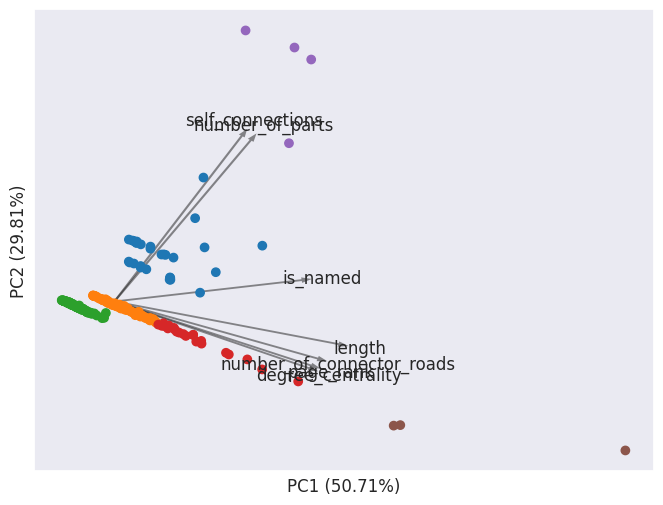
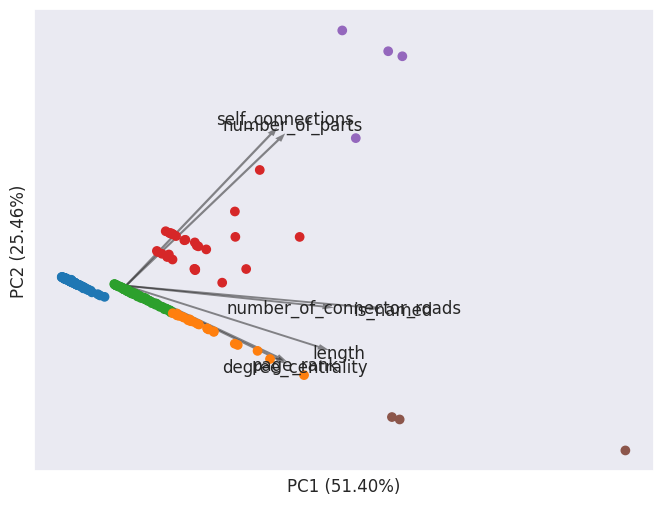
checkpoint

diff --git a/capstone_roads.py b/capstone_roads.py
@@ -40,16 +40,17 @@ from numpy import abs, min, subtract
 
 
 def get_neighbors_and_update(this_dict, this_name, this_line, tree, data):
-    nearest, dist = tree.query_nearest(this_line, return_distance=True)
+    nearest, dist = tree.query_nearest(
+        this_line, return_distance=True, max_distance=0.001
+    )
     if dist[0] == 0:
         for _, id in enumerate(nearest):
             # nearest from .query_nearest gives the ids, not the names
             if data["FULLNAME"][id] == this_name:
                 this_dict["self_connections"] += 1
             # append all connected roads that are not this road
-            else:
-                this_dict["connections_names"].append(data["FULLNAME"][id])
-                this_dict["number_of_connector_roads"] += 1
+            this_dict["connections_names"].append(data["FULLNAME"][id])
+            this_dict["number_of_connector_roads"] += 1
     return this_dict
 
 
@@ -69,7 +70,7 @@ def create_data_for_road(i, set_of_looked_at_roads, list_of_dicts, tree, data):
     if (this_name[0] in {"1", "2", "3", "4", "5", "6", "7", "8", "9", "0"}) and (
         this_name[-1] in {"1", "2", "3", "4", "5", "6", "7", "8", "9", "0"}
     ):
-        this_dict["is_named"] = 0.75  # arbitrary value for false
+        this_dict["is_named"] = 0.7  # arbitrary value for false
 
     if this_name not in set_of_looked_at_roads:
         # ignore it if the road has been looked at
@@ -91,8 +92,9 @@ def create_data_for_road(i, set_of_looked_at_roads, list_of_dicts, tree, data):
                 orig_ind = ind
                 break
         this_dict = list_of_dicts[orig_ind]
-        this_dict["number_of_parts"] += 1
+
         this_dict["length"] += shapely.length(this_line)
+        this_dict["number_of_parts"] += 1
         this_dict = get_neighbors_and_update(
             this_dict, this_name, this_line, tree, data
         )
@@ -104,7 +106,6 @@ def loop_through_roads(set_of_looked_at_roads, list_of_dicts, tree, data, num_ro
     i = 0
     while True:
         try:
-            i = i + 1
             print(
                 next(
                     create_data_for_road(
@@ -114,8 +115,9 @@ def loop_through_roads(set_of_looked_at_roads, list_of_dicts, tree, data, num_ro
                 end=" ",
             )
             print("/", str(num_roads))
+            i = i + 1
         except:
-            return list_of_dicts
+            return list_of_dicts, set_of_looked_at_roads
 
 
 def graph_analysis(list_of_dicts, start_time, shape_files):
@@ -125,6 +127,7 @@ def graph_analysis(list_of_dicts, start_time, shape_files):
     # Add nodes (roads) to the graph
     for road_data in list_of_dicts:
         # some roads don't have a road_name field?? Not sure how that happens..
+        # OH Thats what's causing our failed import
         if "road_name" in road_data:
             G.add_node(road_data["road_name"], data=road_data)
 
@@ -138,6 +141,7 @@ def graph_analysis(list_of_dicts, start_time, shape_files):
                 G.add_edge(road_name, connection)
 
     ic("Time is", timeit.default_timer() - start_time)
+    ic("Number of roads in G is", len(G))
 
     depth = 400
     if nx.is_connected(G):
@@ -153,12 +157,11 @@ def graph_analysis(list_of_dicts, start_time, shape_files):
     else:
         ic("not connected. Analysis on largest connected subset below")
         list_of_connected_dicts = []
-        list_of_unconnected_dicts = []
         orig_idxs = []
         G3 = nx.Graph()
 
         G2 = copy.deepcopy(G)
-        # MAN this sucks. It looks like copy was depreciated as an argument to max() or connected_components
+        # It looks like copy was depreciated as an argument to max() or connected_components
         # And since connected_components removes attribute labels, we need to keep these labels floating around.
         G2 = max(nx.connected_components(G2), key=len)
         # G2 gives a list of road names that are connected
@@ -170,8 +173,6 @@ def graph_analysis(list_of_dicts, start_time, shape_files):
                     list_of_connected_dicts.append(this_road)
                     orig_idxs.append(i)
                     G3.add_node(this_road["road_name"], data=this_road)
-                else:
-                    list_of_unconnected_dicts.append(this_road)
 
         for i, conn_road in enumerate(list_of_connected_dicts):
             # loop through again because edges have to come after nodes
@@ -182,21 +183,16 @@ def graph_analysis(list_of_dicts, start_time, shape_files):
                     G3.add_edge(road_name, connection)
         ic("number of nodes is", str(G3.number_of_nodes()))
         ic("number of edges is", str(G3.number_of_edges()))
-        ic("degree centrality is", str(nx.degree_centrality(G3))[:depth])
-        ic("pagerank is", str(nx.pagerank(G3))[:depth])
         centr = nx.degree_centrality(G3)
         centr_list = list(centr.values())
         pge_rnk = nx.pagerank(G3)
         pge_rnk_list = list(pge_rnk.values())
-        print(
+        ic(
             "the difference between roads before and after cleaning is",
             str(G.number_of_nodes()),
             "to",
             str(G3.number_of_nodes()),
         )
-
-    # need to now collect the information back out of G into something in order to classify
-    # only currently works for G3.
 
     connected_sfs = []
 
@@ -288,6 +284,17 @@ def show_results(list_of_connected_dicts):
     return cols
 
 
+def plot(shape_files):
+    gpd_files = gpd.GeoSeries(shape_files)  # passed in shape_files
+    fig, ax = plt.subplots()
+    gpd_files.plot(ax=ax)
+
+    plt.savefig(
+        "orig_roads.png", bbox_inches="tight"
+    )  # puts it in the working directory
+    plt.close()
+
+
 def setup(filepath):
     start_time = timeit.default_timer()
 
@@ -306,6 +313,8 @@ def setup(filepath):
 
     num_roads = len(data["geometry"])
     shape_files = data["geometry"]
+
+    plot(shape_files)
 
     for j in range(num_roads):
         if str(data["FULLNAME"][j]) == "nan":
@@ -329,6 +338,14 @@ def setup(filepath):
     )
 
 
+def validate(data, set_of_looked_at_roads):
+    for i in range(len(data)):
+        if data["FULLNAME"][i] in set_of_looked_at_roads:
+            pass
+        else:
+            ic("Our i is", i, "and our road_name is", data["FULLNAME"][i])
+
+
 def main(filepath):
     (
         start_time,
@@ -342,14 +359,18 @@ def main(filepath):
 
     # in the old formulation, this would give us the progress bar
     # for i in tqdm(range(size)):
-    list_of_dicts = loop_through_roads(
+    list_of_dicts, set_of_looked_at_roads = loop_through_roads(
         set_of_looked_at_roads, list_of_dicts, tree, data, num_roads
     )
 
-    list_of_connected_dicts, _ = graph_analysis(list_of_dicts, start_time, shape_files)
+    list_of_connected_dicts, shape_files_connected = graph_analysis(
+        list_of_dicts, start_time, shape_files
+    )
 
     show_results(list_of_connected_dicts)
 
+    validate(data, set_of_looked_at_roads)
+
 
 if __name__ == "__main__":
-    main(filepath="~/Downloads/tl_rd22_51001_roads.zip")
+    main(filepath="tl_2022_51678_roads.zip")

diff --git a/gui.py b/gui.py
@@ -125,6 +125,9 @@ def main():
         webbrowser.open_new(
             "https://www.census.gov/cgi-bin/geo/shapefiles/index.php?year=2022&layergroup=Roads"
         )
+        # os.sleep(10)
+        # webbrowser close doesn't exist LOL
+        # TODO Auto close webbrowser
 
     def city_finder():
         webbrowser.open_new(
@@ -143,17 +146,22 @@ def main():
                 dpg.mvStyleVar_ScrollbarSize, 4, category=dpg.mvThemeCat_Core
             )
 
-    with dpg.window(label="Chose Road Network to Analyze", width=600, height=400):
-        text1 = dpg.add_text("Select the City / County to download your roads from")
-        button1 = dpg.add_button(label="Download Roads to Analyze", callback=download)
+    with dpg.window(label="Chose Road Network to Analyze", width=500, height=300):
+        text0 = dpg.add_text(
+            "Note: If you don't find your city below, download by county"
+        )
         button2 = dpg.add_button(
-            label="If you don't find your city / town, click here to find the county (then download from above)",
+            label="Find County",
             callback=city_finder,
         )
-        text2 = dpg.add_text("...once files are downloaded")
-        zip = dpg.add_button(
-            label="Link to .zip Folder of Roads or .shp file", callback=get_user_link
+        dpg.add_text("")
+        text1 = dpg.add_text(
+            ">> Select the City / County to download your roads from. Choose from 'All Roads'"
         )
+        button1 = dpg.add_button(label="Download Roads", callback=download)
+        dpg.add_text("")
+        text2 = dpg.add_text("...once files are downloaded")
+        zip = dpg.add_button(label="Locate File", callback=get_user_link)
         dpg.add_text("")
 
         fp = dpg.add_text(label="file_path", default_value="no path defined yet")
